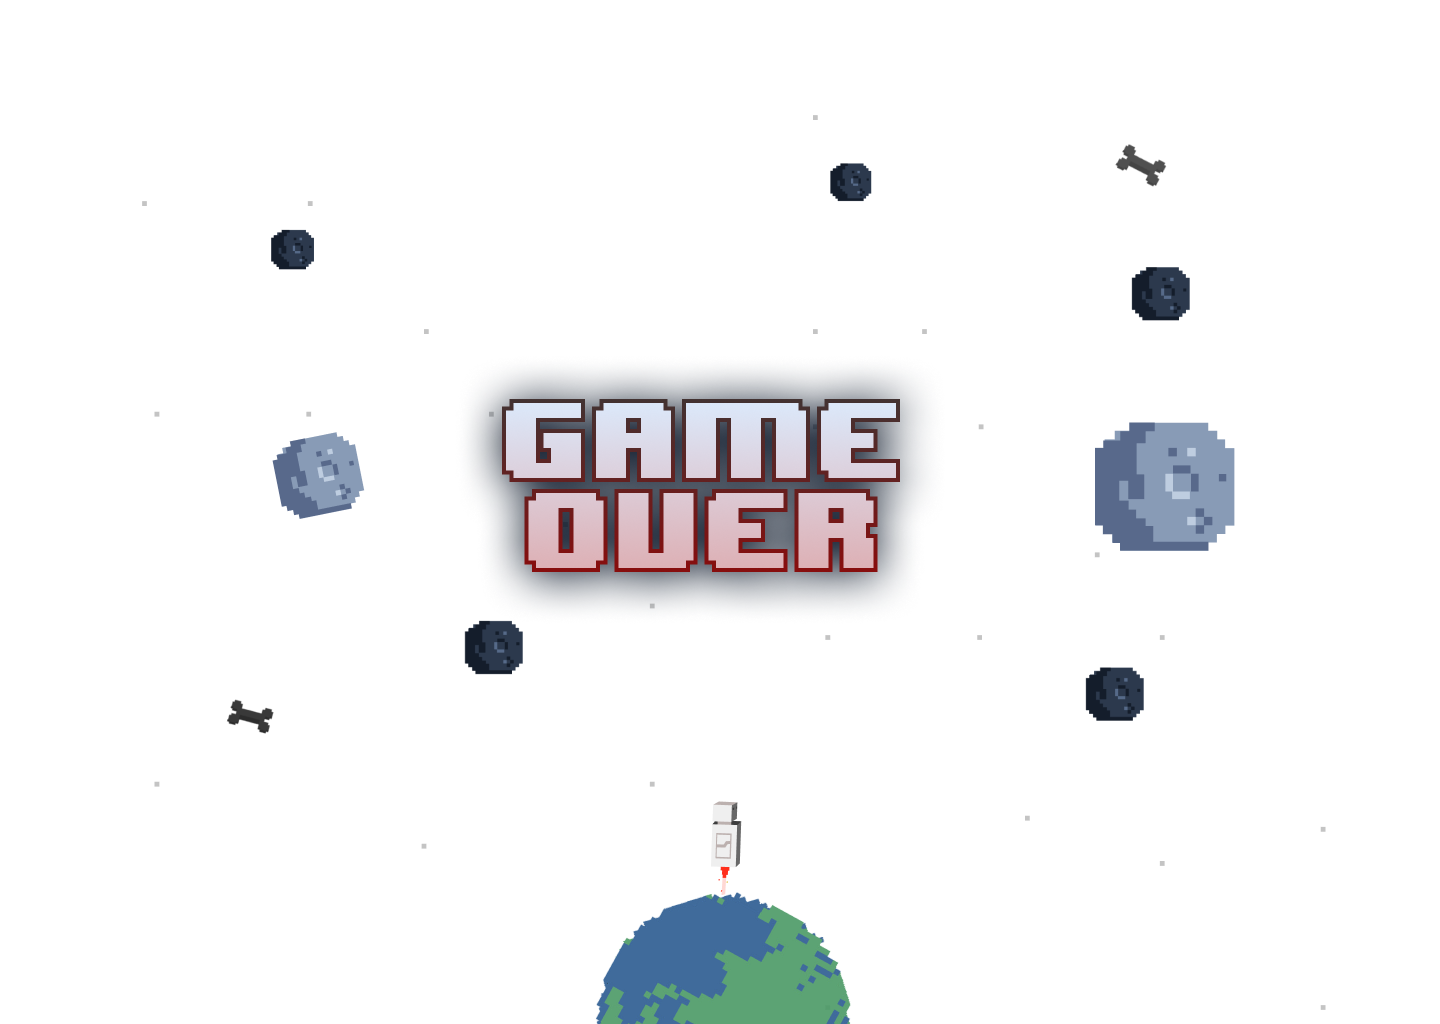
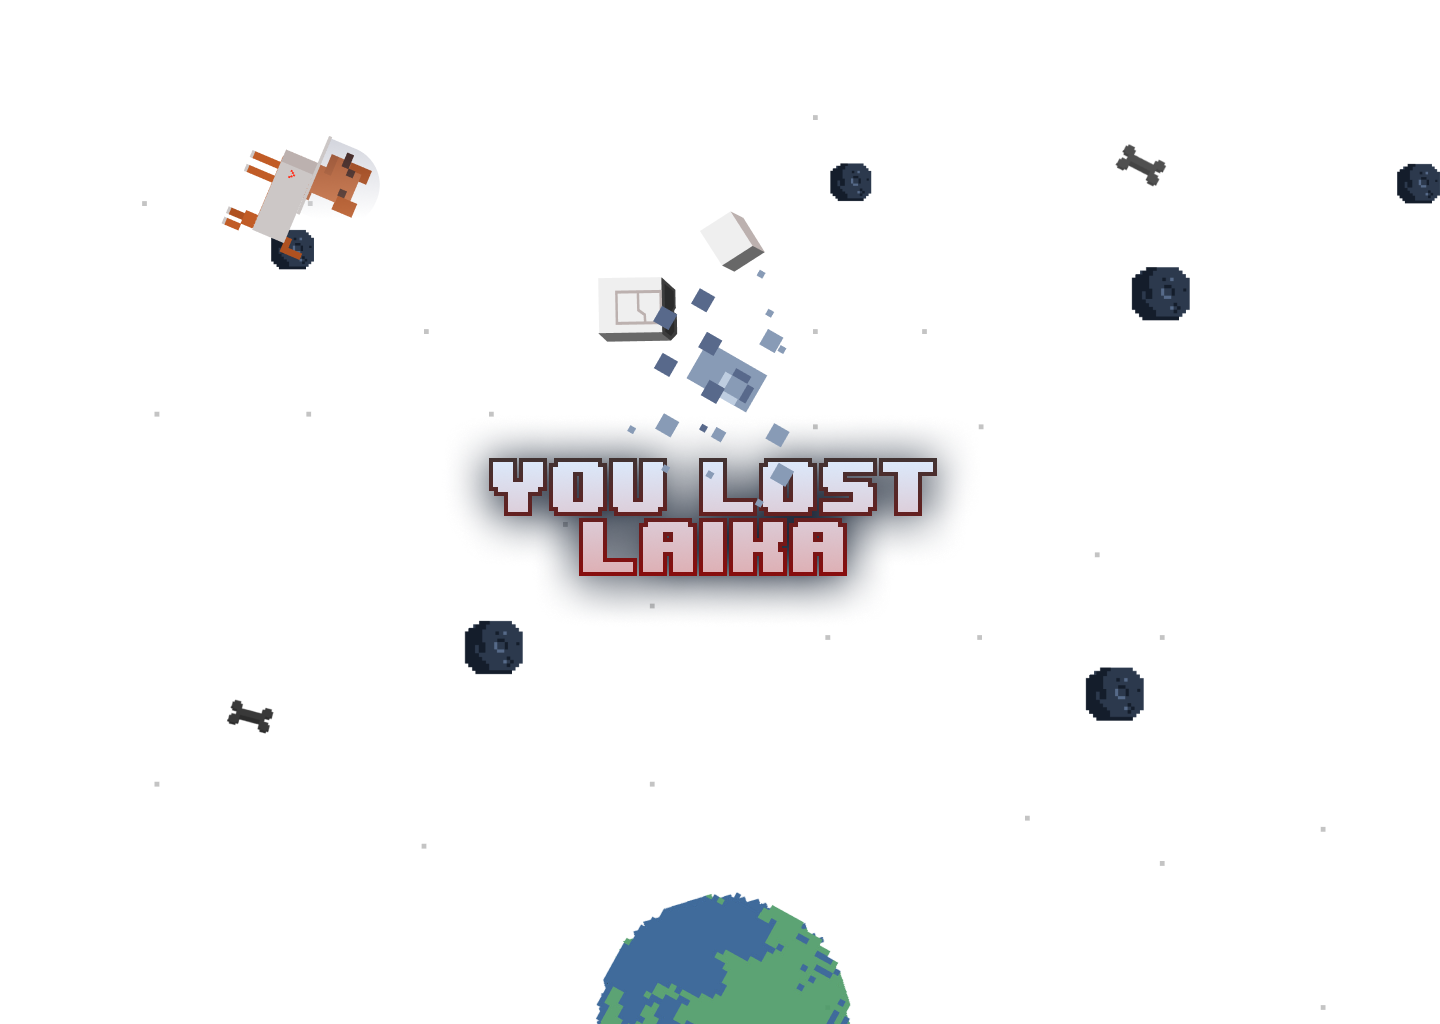
changed images

diff --git a/scripts/game.js b/scripts/game.js
@@ -1,5 +1,10 @@
 const $canvas = document.querySelector('canvas');
 
+const $buttonStart = document.getElementById('btn-start');
+const $buttonIntro = document.getElementById('btn-intro');
+const $buttonPause = document.getElementById('btn-pause');
+const $buttonBack = document.getElementById('btn-back');
+
 class Game {
   constructor($canvas) {
     this.$canvas = $canvas;
@@ -8,61 +13,40 @@ class Game {
     this.controller = new Controller(this);
     this.controller.setKeyBindings();
     this.setControlBindings();
-    this.startScreen();
+    this.loadScreen();
+  }
+
+  loadScreen() {
+    window.addEventListener('load', () => {
+      this.startScreen();
+    });
   }
 
   startScreen() {
-    window.addEventListener('load', () => {
-      this.context.drawImage(startImage, 0, 0, this.$canvas.width, this.$canvas.height);
-      const $buttonPause = document.getElementById('btn-pause');
-      $buttonPause.style.display = 'none';
-    });
+    this.context.drawImage(startImage, 0, 0, this.$canvas.width, this.$canvas.height);
+    $buttonStart.innerText = 'Start';
+    $buttonIntro.style.display = 'block';
+    $buttonPause.style.display = 'none';
+    $buttonBack.style.display = 'none';
   }
 
   intro() {
     this.clearScreen();
-
     const ctx = this.context;
-    const positionX = this.$canvas.width / 2;
-
     ctx.drawImage(introImage, 0, 0, this.$canvas.width, this.$canvas.height);
-
-    ctx.save();
-    ctx.fillStyle = 'white';
-    ctx.font = '21px sans-serif';
-    ctx.textAlign = 'center';
-    ctx.fillText(`Hello pilot!`, positionX, 100);
-    ctx.textAlign = 'center';
-    ctx.fillText(`On November 1957, Russia launched Sputnik 2.`, positionX, 150);
-    ctx.textAlign = 'center';
-    ctx.fillText(
-      `Onboard was the first passenger to orbit the Earth, a small dog named Laika.`,
-      positionX,
-      200
-    );
-    ctx.textAlign = 'center';
-    ctx.fillText(`Your mission today is to bring Laika safely back home.`, positionX, 250);
-    ctx.textAlign = 'center';
-    ctx.fillText(`Use the arrow keys to control the rescue robot.`, positionX, 300);
-    ctx.textAlign = 'center';
-    ctx.fillText(
-      `On your way, collect the bones and batteries, but beware of rolling meteors!`,
-      positionX,
-      350
-    );
-    ctx.restore();
+    $buttonStart.innerText = 'Start';
+    $buttonIntro.style.display = 'none';
+    $buttonPause.style.display = 'none';
+    $buttonBack.style.display = 'block';
   }
 
   setControlBindings() {
-    const $buttonStart = document.getElementById('btn-start');
-    const $buttonIntro = document.getElementById('btn-intro');
-    const $buttonPause = document.getElementById('btn-pause');
-
     $buttonStart.addEventListener('click', () => {
       this.start();
       $buttonStart.innerText = 'Restart';
       $buttonIntro.style.display = 'none';
       $buttonPause.style.display = 'block';
+      $buttonBack.style.display = 'none';
     });
 
     $buttonIntro.addEventListener('click', () => {
@@ -71,6 +55,11 @@ class Game {
 
     $buttonPause.addEventListener('click', () => {
       this.pause();
+    });
+
+    $buttonBack.addEventListener('click', () => {
+      this.clearScreen();
+      this.startScreen();
     });
   }
 
@@ -127,37 +116,29 @@ class Game {
   gameOver() {
     this.clearScreen();
     this.context.drawImage(gameoverImage, 0, 0, this.$canvas.width, this.$canvas.height);
-
-    const $buttonIntro = document.getElementById('btn-intro');
-    const $buttonPause = document.getElementById('btn-pause');
-
-    $buttonIntro.style.display = 'block';
+    $buttonStart.innerText = 'Restart';
+    $buttonIntro.style.display = 'none';
     $buttonPause.style.display = 'none';
+    $buttonBack.style.display = 'block';
   }
 
   gameWon() {
     this.clearScreen();
     this.context.drawImage(gamewonImage, 0, 0, this.$canvas.width, this.$canvas.height);
-
-    const $buttonIntro = document.getElementById('btn-intro');
-    const $buttonPause = document.getElementById('btn-pause');
-
-    $buttonIntro.style.display = 'block';
+    $buttonStart.innerText = 'Restart';
+    $buttonIntro.style.display = 'none';
     $buttonPause.style.display = 'none';
+    $buttonBack.style.display = 'block';
   }
 
   pause() {
-    const $buttonPause = document.getElementById('btn-pause');
-
-    if (this.scoreboard.lifeBar > 0 || this.scoreboard.timeLeft > 0) {
-      this.isRunning = !this.isRunning;
-      if (this.isRunning) {
-        $buttonPause.innerText = 'Pause';
-      } else if (!this.isRunning) {
-        $buttonPause.innerText = 'Continue';
-      }
-      this.loop();
+    this.isRunning = !this.isRunning;
+    if (this.isRunning) {
+      $buttonPause.innerText = 'Pause';
+    } else if (!this.isRunning) {
+      $buttonPause.innerText = 'Continue';
     }
+    this.loop();
   }
 
   start() {
@@ -198,7 +179,7 @@ class Game {
 
     this.powerupsArray = [];
     for (let i = 0; i < 2; i++) {
-      let powerup = new PowerUp(this, 1700 + i * 1000);
+      let powerup = new PowerUp(this, 1700 + i * 1300);
       this.powerupsArray.push(powerup);
     }
 

diff --git a/scripts/images.js b/scripts/images.js
@@ -2,11 +2,9 @@ const boneImage = new Image();
 boneImage.src = '../images/bone.png';
 
 const meteorImage = new Image();
-// meteorImage.src = '../images/meteor.png';
 meteorImage.src = '../images/meteor_sprite.png';
 
 const robotImage = new Image();
-// robotImage.src = '../images/robot.png';
 robotImage.src = '../images/robot_sprite.png';
 
 const rockImage = new Image();

diff --git a/index.html b/index.html
@@ -23,6 +23,7 @@
       <div id="buttons">
         <button id="btn-intro">Intro</button>
         <button id="btn-pause">Pause</button>
+        <button id="btn-back">Back</button>
         <button id="btn-start">Start</button>
       </div>
     </div>

diff --git a/style.css b/style.css
@@ -48,6 +48,7 @@ button {
 }
 
 #btn-intro,
-#btn-pause {
+#btn-pause,
+#btn-back {
   margin-right: 20px;
 }
